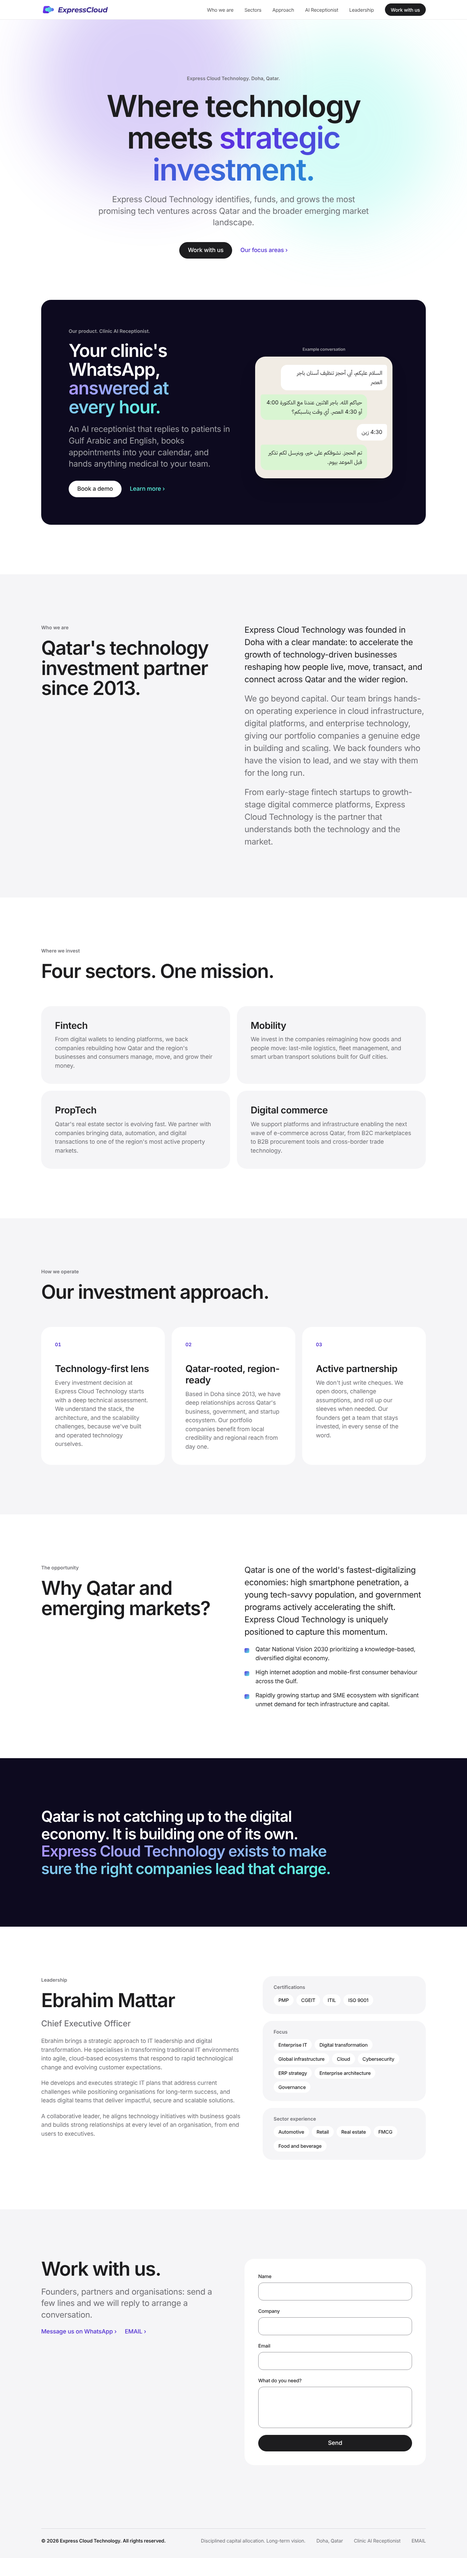
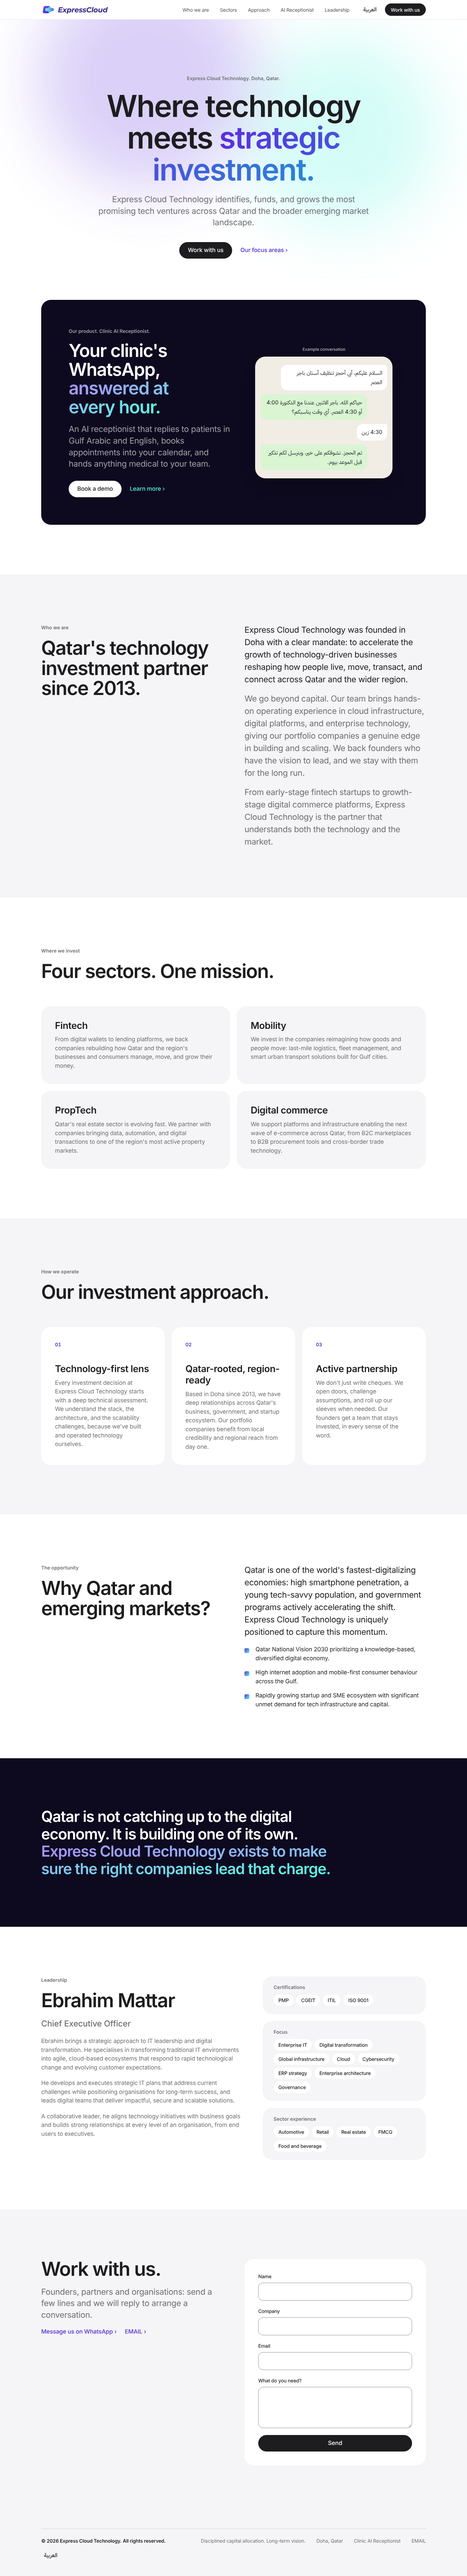
Add an Arabic home page and a language switch on every page
The home page now has a right-to-left Arabic version at /ar/ with its own
title, description and link preview image. The switch sits in the header
and footer of all four pages and keeps the visitor on the same section.

Claude-Session: https://claude.ai/code/session_01NoR23tS5FkkHHbxi4oB7Ab

diff --git a/artifacts/expresscloud-site/ar/index.html b/artifacts/expresscloud-site/ar/index.html
@@ -1,0 +1,231 @@
+<!DOCTYPE html>
+<html lang="ar" dir="rtl">
+<head>
+<meta charset="utf-8">
+<meta name="viewport" content="width=device-width, initial-scale=1, viewport-fit=cover">
+<title>ExpressCloud - حيث تلتقي التقنية بالاستثمار الاستراتيجي</title>
+<meta name="description" content="تحدّد إكسبرس كلاود تكنولوجي أبرز المشاريع التقنية الواعدة في قطر والأسواق الناشئة، وتموّلها وتنمّيها.">
+<!-- Hidden from search until the copy is approved and the domain is live. -->
+<meta name="robots" content="noindex">
+<link rel="canonical" href="https://expresscloudtech.netlify.app/ar/">
+<link rel="alternate" hreflang="en" href="https://expresscloudtech.netlify.app/">
+<link rel="alternate" hreflang="ar" href="https://expresscloudtech.netlify.app/ar/">
+<meta property="og:type" content="website">
+<meta property="og:locale" content="ar_QA">
+<meta property="og:site_name" content="ExpressCloud">
+<meta property="og:title" content="ExpressCloud - حيث تلتقي التقنية بالاستثمار الاستراتيجي">
+<meta property="og:description" content="تحدّد إكسبرس كلاود تكنولوجي أبرز المشاريع التقنية الواعدة في قطر والأسواق الناشئة، وتموّلها وتنمّيها.">
+<meta property="og:url" content="https://expresscloudtech.netlify.app/ar/">
+<meta property="og:image" content="https://expresscloudtech.netlify.app/og/home-ar.png">
+<meta property="og:image:width" content="1200">
+<meta property="og:image:height" content="630">
+<meta name="twitter:card" content="summary_large_image">
+<meta name="twitter:title" content="ExpressCloud - حيث تلتقي التقنية بالاستثمار الاستراتيجي">
+<meta name="twitter:description" content="تحدّد إكسبرس كلاود تكنولوجي أبرز المشاريع التقنية الواعدة في قطر والأسواق الناشئة، وتموّلها وتنمّيها.">
+<meta name="twitter:image" content="https://expresscloudtech.netlify.app/og/home-ar.png">
+<script type="application/ld+json">
+{
+  "@context": "https://schema.org",
+  "@type": "Organization",
+  "name": "Express Cloud Technology",
+  "alternateName": "ExpressCloud",
+  "url": "https://expresscloudtech.netlify.app/",
+  "logo": "https://expresscloudtech.netlify.app/logo-mark.svg",
+  "description": "Express Cloud Technology identifies, funds, and grows the most promising tech ventures across Qatar and the broader emerging market landscape.",
+  "foundingDate": "2013",
+  "foundingLocation": { "@type": "Place", "name": "Doha, Qatar" },
+  "address": { "@type": "PostalAddress", "addressLocality": "Doha", "addressCountry": "QA" }
+}
+</script>
+<meta name="theme-color" content="#FFFFFF">
+<link rel="icon" type="image/svg+xml" href="/favicon.svg">
+<script>document.documentElement.classList.add('js');</script>
+<link rel="stylesheet" href="../site.css">
+</head>
+<body>
+<a class="skip" href="#main">انتقل إلى المحتوى</a>
+<header class="header">
+  <div class="wrap header__row">
+    <a class="logo" href="#top" aria-label="ExpressCloud"><img src="/logo-mark.svg" alt="" width="92" height="68"><span class="logo__word" lang="en" dir="ltr">ExpressCloud</span></a>
+    <nav class="nav" id="nav" aria-label="الأقسام">
+      <a href="#about">من نحن</a>
+      <a href="#focus">القطاعات</a>
+      <a href="#approach">نهجنا</a>
+      <a href="clinic-ai-receptionist.html">موظف الاستقبال الذكي</a>
+      <a href="#leadership">القيادة</a>
+      <a class="nav__cta" href="#contact">تعاون معنا</a>
+    </nav>
+    <a class="lang" href="../index.html" lang="en" hreflang="en" data-lang-switch>English</a>
+    <button class="menu" type="button" aria-expanded="false" aria-controls="nav" data-menu><span class="sr">القائمة</span><svg viewBox="0 0 24 24" width="22" height="22" aria-hidden="true"><path d="M4 8h16M4 16h16" stroke="currentColor" stroke-width="1.8" stroke-linecap="round" fill="none"/></svg></button>
+    <a class="btn btn--small" href="#contact">تعاون معنا</a>
+  </div>
+</header>
+
+<main id="main">
+  <!-- Hero, Who we are, sectors, approach and opportunity use the company website's own wording. -->
+  <section class="hero hero--glow center" id="top">
+    <div class="wrap stack">
+      <p class="eyebrow">إكسبرس كلاود تكنولوجي. الدوحة، قطر.</p>
+      <h1>حيث تلتقي التقنية <span class="grad">بالاستثمار الاستراتيجي.</span></h1>
+      <p class="lede">تحدّد إكسبرس كلاود تكنولوجي أبرز المشاريع التقنية الواعدة في قطر والأسواق الناشئة، وتموّلها وتنمّيها.</p>
+      <div class="actions">
+        <a class="btn" href="#contact">تعاون معنا</a>
+        <a class="more" href="#focus">مجالات تركيزنا</a>
+      </div>
+    </div>
+  </section>
+
+  <section class="feature" aria-labelledby="product-title">
+    <div class="wrap">
+      <div class="tile tile--product dark">
+        <div class="stack" data-reveal>
+          <p class="eyebrow">منتجنا. موظف الاستقبال الذكي للعيادات.</p>
+          <h2 id="product-title">واتساب عيادتك، <span class="grad">يردّ على مرضاك في كل ساعة.</span></h2>
+          <p class="lede">موظف استقبال ذكي يردّ على المرضى باللهجة الخليجية وبالإنجليزية، ويحجز المواعيد في جدولكم، ويحوّل أي سؤال طبي إلى فريقكم.</p>
+          <div class="actions">
+            <a class="btn" href="clinic-ai-receptionist.html#demo">احجز عرضاً تجريبياً</a>
+            <a class="more" href="clinic-ai-receptionist.html">اعرف المزيد</a>
+          </div>
+        </div>
+        <figure class="chat" data-chat>
+        <figcaption class="chat__label">محادثة نموذجية</figcaption>
+        <ol class="chat__window" lang="ar" dir="rtl">
+          <li class="msg msg--in"><span class="sr">المراجع: </span>السلام عليكم، أبي أحجز تنظيف أسنان باجر العصر</li>
+          <li class="msg msg--out"><span class="sr">العيادة: </span>حياكم الله. باجر الاثنين عندنا مع الدكتورة 4:00 أو 4:30 العصر. أي وقت يناسبكم؟</li>
+          <li class="msg msg--in"><span class="sr">المراجع: </span>4:30 زين</li>
+          <li class="msg msg--out"><span class="sr">العيادة: </span>تم الحجز. نشوفكم على خير، وبنرسل لكم تذكير قبل الموعد بيوم.</li>
+        </ol>
+      </figure>
+      </div>
+    </div>
+  </section>
+
+  <section class="section soft" id="about">
+    <div class="wrap about">
+      <div class="head" data-reveal>
+        <p class="eyebrow">من نحن</p>
+        <h2>شريك الاستثمار التقني في قطر منذ 2013.</h2>
+      </div>
+      <div class="prose" data-reveal>
+        <p>تأسست إكسبرس كلاود تكنولوجي في الدوحة برسالة واضحة: تسريع نمو الشركات القائمة على التقنية، التي تعيد تشكيل طريقة عيش الناس وتنقّلهم ومعاملاتهم وتواصلهم في قطر والمنطقة.</p>
+        <p>نقدّم أكثر من رأس المال. يملك فريقنا خبرة تشغيلية عملية في البنية السحابية والمنصات الرقمية وتقنيات المؤسسات، ما يمنح شركات محفظتنا أفضلية حقيقية في البناء والتوسّع. ندعم المؤسسين أصحاب الرؤية القيادية، ونبقى معهم على المدى الطويل.</p>
+        <p>من شركات التقنية المالية الناشئة في مراحلها الأولى إلى منصات التجارة الرقمية في مرحلة النمو، إكسبرس كلاود تكنولوجي هي الشريك الذي يفهم التقنية والسوق معاً.</p>
+      </div>
+    </div>
+  </section>
+
+  <section class="section" id="focus">
+    <div class="wrap">
+      <div class="head" data-reveal>
+        <p class="eyebrow">أين نستثمر</p>
+        <h2>أربعة قطاعات. رسالة واحدة.</h2>
+      </div>
+      <ul class="grid grid--2">
+        <li class="card" data-reveal><h3>التقنية المالية</h3><p>من المحافظ الرقمية إلى منصات الإقراض، ندعم الشركات التي تعيد بناء طريقة إدارة الأموال وتحويلها وتنميتها لدى الشركات والأفراد في قطر والمنطقة.</p></li>
+        <li class="card" data-reveal><h3>التنقّل</h3><p>نستثمر في الشركات التي تعيد ابتكار حركة البضائع والأشخاص: توصيل الميل الأخير، وإدارة الأساطيل، وحلول النقل الحضري الذكي المصمّمة لمدن الخليج.</p></li>
+        <li class="card" data-reveal><h3>التقنية العقارية</h3><p>يتطور القطاع العقاري في قطر بسرعة. نتعاون مع الشركات التي تُدخل البيانات والأتمتة والمعاملات الرقمية إلى واحد من أنشط أسواق العقار في المنطقة.</p></li>
+        <li class="card" data-reveal><h3>التجارة الرقمية</h3><p>ندعم المنصات والبنية التي تمكّن الموجة القادمة من التجارة الإلكترونية في قطر، من أسواق البيع للمستهلكين إلى أدوات المشتريات بين الشركات وتقنيات التجارة عبر الحدود.</p></li>
+      </ul>
+    </div>
+  </section>
+
+  <section class="section soft" id="approach">
+    <div class="wrap">
+      <div class="head" data-reveal>
+        <p class="eyebrow">كيف نعمل</p>
+        <h2>نهجنا في الاستثمار.</h2>
+      </div>
+      <ol class="grid grid--3">
+        <li class="card" data-reveal><span class="card__n" aria-hidden="true">٠١</span><h3>التقنية أولاً</h3><p>يبدأ كل قرار استثماري في إكسبرس كلاود تكنولوجي بتقييم تقني عميق. نفهم البنية البرمجية والمعمارية وتحديات التوسّع، لأننا بنينا التقنية وشغّلناها بأنفسنا.</p></li>
+        <li class="card" data-reveal><span class="card__n" aria-hidden="true">٠٢</span><h3>جذور في قطر، وجاهزية للمنطقة</h3><p>نعمل من الدوحة منذ 2013، ولدينا علاقات راسخة في أوساط الأعمال والجهات الحكومية ومنظومة الشركات الناشئة في قطر. تستفيد شركات محفظتنا من المصداقية المحلية والوصول الإقليمي منذ اليوم الأول.</p></li>
+        <li class="card" data-reveal><span class="card__n" aria-hidden="true">٠٣</span><h3>شراكة فاعلة</h3><p>لا نكتفي بتوقيع الشيكات. نفتح الأبواب، ونختبر الافتراضات، ونشمّر عن سواعدنا عند الحاجة. يحصل مؤسسونا على فريق يبقى مستثمراً معهم، بكل معنى الكلمة.</p></li>
+      </ol>
+    </div>
+  </section>
+
+  <section class="section" id="opportunity">
+    <div class="wrap about">
+      <div class="head" data-reveal>
+        <p class="eyebrow">الفرصة</p>
+        <h2>لماذا قطر والأسواق الناشئة؟</h2>
+      </div>
+      <div class="prose" data-reveal>
+        <p>قطر من أسرع اقتصادات العالم تحولاً رقمياً: انتشار واسع للهواتف الذكية، ومجتمع شاب متمكّن من التقنية، وبرامج حكومية تسرّع هذا التحول. وإكسبرس كلاود تكنولوجي في موقع فريد للاستفادة من هذا الزخم.</p>
+        <ul class="ticks">
+          <li>رؤية قطر الوطنية 2030 تضع في أولوياتها اقتصاداً رقمياً متنوعاً قائماً على المعرفة.</li>
+          <li>انتشار واسع للإنترنت، وسلوك استهلاكي يعتمد على الجوال أولاً في أنحاء الخليج.</li>
+          <li>منظومة شركات ناشئة وصغيرة ومتوسطة تنمو بسرعة، مع طلب كبير غير ملبّى على البنية التقنية ورأس المال.</li>
+        </ul>
+      </div>
+    </div>
+  </section>
+
+  <section class="section dark" id="principle">
+    <div class="wrap">
+      <blockquote class="statement" data-reveal>قطر لا تلحق بالاقتصاد الرقمي، بل تبني اقتصادها الرقمي الخاص. <span class="grad">وإكسبرس كلاود تكنولوجي وُجدت لتضمن أن تقود الشركات المناسبة هذه المسيرة.</span></blockquote>
+    </div>
+  </section>
+
+  <section class="section" id="leadership">
+    <div class="wrap person">
+      <div class="stack" data-reveal>
+        <p class="eyebrow">القيادة</p>
+        <h2 class="person__name">إبراهيم مطر</h2>
+        <p class="person__role">الرئيس التنفيذي</p>
+        <p>يتبع إبراهيم نهجاً استراتيجياً في قيادة تقنية المعلومات والتحول الرقمي. يتخصص في تحويل بيئات تقنية المعلومات التقليدية إلى منظومات سحابية مرنة، تستجيب للتغير التقني السريع ولتوقعات العملاء المتجددة.</p>
+        <p>يضع خططاً استراتيجية لتقنية المعلومات وينفّذها، تعالج تحديات الحاضر وتهيّئ المؤسسات للنجاح على المدى الطويل، ويقود فرقاً رقمية تقدّم حلولاً مؤثرة وآمنة وقابلة للتوسّع.</p>
+        <p>قائد يؤمن بالعمل المشترك، يوائم المبادرات التقنية مع أهداف العمل، ويبني علاقات متينة على كل مستويات المؤسسة، من المستخدمين إلى الإدارة التنفيذية.</p>
+      </div>
+      <div class="facts" data-reveal>
+        <div><h3>الشهادات</h3><ul class="chips" dir="ltr"><li>PMP</li><li>CGEIT</li><li>ITIL</li><li>ISO 9001</li></ul></div>
+        <div><h3>مجالات التركيز</h3><ul class="chips"><li>تقنية المعلومات المؤسسية</li><li>التحول الرقمي</li><li>البنية التحتية العالمية</li><li>السحابة</li><li>الأمن السيبراني</li><li>استراتيجية أنظمة ERP</li><li>معمارية المؤسسات</li><li>الحوكمة</li></ul></div>
+        <div><h3>الخبرة القطاعية</h3><ul class="chips"><li>السيارات</li><li>التجزئة</li><li>العقارات</li><li>السلع الاستهلاكية</li><li>الأغذية والمشروبات</li></ul></div>
+      </div>
+    </div>
+  </section>
+
+  <section class="section soft" id="contact">
+    <div class="wrap split">
+      <div class="stack" data-reveal>
+        <h2>تعاون معنا.</h2>
+        <p class="lede">للمؤسسين والشركاء والمؤسسات: أرسلوا لنا بضعة أسطر، وسنردّ لترتيب محادثة.</p>
+        <div class="actions">
+          <a class="more" href="https://wa.me/97450008155">راسلنا على الواتساب</a>
+          <a class="more" href="mailto:EMAIL" dir="ltr">EMAIL</a>
+        </div>
+      </div>
+      <div>
+        <form class="form" name="contact" method="POST" data-netlify="true" netlify-honeypot="website" data-form>
+          <input type="hidden" name="form-name" value="contact">
+          <input type="hidden" name="language" value="Arabic">
+          <p class="form__trap" aria-hidden="true"><label>اتركوا هذا الحقل فارغاً <input name="website" tabindex="-1" autocomplete="off"></label></p>
+          <div class="field"><label for="c-name">الاسم</label><input id="c-name" name="name" type="text" autocomplete="name" required></div>
+          <div class="field"><label for="c-company">الشركة</label><input id="c-company" name="company" type="text" autocomplete="organization" required></div>
+          <div class="field"><label for="c-email">البريد الإلكتروني</label><input id="c-email" name="email" type="email" dir="ltr" autocomplete="email" required></div>
+          <div class="field"><label for="c-message">ما الذي تحتاجونه؟</label><textarea id="c-message" name="message" required></textarea></div>
+          <button class="btn" type="submit">إرسال</button>
+          <p class="form__error" role="alert" hidden data-form-error>تعذّر الإرسال. حاولوا مرة أخرى، أو راسلونا على الواتساب.</p>
+        </form>
+        <div class="thanks" role="status" tabindex="-1" hidden data-form-thanks>
+          <h3>شكراً لكم.</h3>
+          <p>وصلتنا رسالتكم وسنردّ قريباً.</p>
+        </div>
+      </div>
+    </div>
+  </section>
+</main>
+
+<footer class="footer">
+  <div class="wrap footer__row">
+    <span class="footer__name">&copy; 2026 <span lang="en" dir="ltr">Express Cloud Technology</span>. جميع الحقوق محفوظة.</span>
+    <span>تخصيص منضبط لرأس المال. رؤية بعيدة المدى.</span>
+    <span>الدوحة، قطر</span>
+    <a href="clinic-ai-receptionist.html">موظف الاستقبال الذكي للعيادات</a>
+    <a href="mailto:EMAIL" dir="ltr">EMAIL</a>
+    <a class="lang" href="../index.html" lang="en" hreflang="en" data-lang-switch>English</a>
+  </div>
+</footer>
+
+<script type="module" src="../site.js"></script>
+</body>
+</html>

diff --git a/artifacts/expresscloud-site/index.html b/artifacts/expresscloud-site/index.html
@@ -8,6 +8,8 @@
 <!-- Hidden from search until the copy is approved and the domain is live. -->
 <meta name="robots" content="noindex">
 <link rel="canonical" href="https://expresscloudtech.netlify.app/">
+<link rel="alternate" hreflang="en" href="https://expresscloudtech.netlify.app/">
+<link rel="alternate" hreflang="ar" href="https://expresscloudtech.netlify.app/ar/">
 <meta property="og:type" content="website">
 <meta property="og:site_name" content="ExpressCloud">
 <meta property="og:title" content="ExpressCloud - Where technology meets strategic investment">
@@ -50,7 +52,9 @@
       <a href="#approach">Approach</a>
       <a href="clinic-ai-receptionist.html">AI Receptionist</a>
       <a href="#leadership">Leadership</a>
+      <a class="nav__cta" href="#contact">Work with us</a>
     </nav>
+    <a class="lang" href="ar/index.html" lang="ar" hreflang="ar" data-lang-switch>العربية</a>
     <button class="menu" type="button" aria-expanded="false" aria-controls="nav" data-menu><span class="sr">Menu</span><svg viewBox="0 0 24 24" width="22" height="22" aria-hidden="true"><path d="M4 8h16M4 16h16" stroke="currentColor" stroke-width="1.8" stroke-linecap="round" fill="none"/></svg></button>
     <a class="btn btn--small" href="#contact">Work with us</a>
   </div>
@@ -216,6 +220,7 @@
     <span>Doha, Qatar</span>
     <a href="clinic-ai-receptionist.html">Clinic AI Receptionist</a>
     <a href="mailto:EMAIL">EMAIL</a>
+    <a class="lang" href="ar/index.html" lang="ar" hreflang="ar" data-lang-switch>العربية</a>
   </div>
 </footer>
 

diff --git a/artifacts/expresscloud-site/site.css b/artifacts/expresscloud-site/site.css
@@ -219,8 +219,8 @@ blockquote { margin: 0; }
 .lang:lang(ar) { font-family: "IBM Plex Sans Arabic", var(--font-sans); font-size: 1rem; }
 .nav__cta { display: none; }
 @media (max-width: 819px) { .nav.is-open .nav__cta { display: block; color: var(--accent); } }
-/* Product pages on phones: the language switch takes the header button's place; the hero button is right below. */
-@media (max-width: 479px) { .product .header__cta { display: none; } }
+/* Phones: the language switch takes the header button's place; the same button is in the hero and the menu. */
+@media (max-width: 479px) { .header .btn--small { display: none; } }
 @media (max-width: 359px) { .product .logo__tag { display: none; } }
 
 /* ---------- Product hero ---------- */
@@ -240,3 +240,6 @@ html[lang="ar"] :is(h1, h2) { font-weight: 600; }
 html[lang="ar"] .hero__title { font-size: clamp(2.25rem, 1.3rem + 4vw, 4rem); }
 [dir="rtl"] .field input[type="tel"] { text-align: right; }
 .thanks h3 { font-size: var(--text-h3); }
+.chips[dir="ltr"] { justify-content: flex-end; }
+html[lang="ar"] .statement { line-height: 1.5; }
+html[lang="ar"] .person__name { line-height: 1.4; }

diff --git a/artifacts/expresscloud-site/ar/clinic-ai-receptionist.html b/artifacts/expresscloud-site/ar/clinic-ai-receptionist.html
@@ -73,7 +73,7 @@
 <a class="skip" href="#main">انتقل إلى المحتوى</a>
 <header class="header">
   <div class="wrap header__row">
-    <a class="logo" href="../index.html" aria-label="ExpressCloud AI، العودة إلى ExpressCloud"><img src="/logo-mark.svg" alt="" width="92" height="68"><span class="logo__word" lang="en" dir="ltr">ExpressCloud</span> <span class="logo__tag" lang="en">AI</span></a>
+    <a class="logo" href="index.html" aria-label="ExpressCloud AI، العودة إلى ExpressCloud"><img src="/logo-mark.svg" alt="" width="92" height="68"><span class="logo__word" lang="en" dir="ltr">ExpressCloud</span> <span class="logo__tag" lang="en">AI</span></a>
     <nav class="nav" id="nav" aria-label="الأقسام">
       <a href="#how">كيف يعمل</a>
       <a href="#safety">الأمان</a>

diff --git a/CLAUDE.md b/CLAUDE.md
@@ -14,5 +14,6 @@ Direction: premium and minimal (large type, lots of space, black, white and one 
 - Never ask for patient data on this site.
 - No emoji, stock photos or robot imagery. The only gradient is the brand violet-to-aqua, used sparingly.
 - The public address is set in page meta tags, `public/sitemap.xml` and `public/robots.txt` (currently the Netlify address); update all of them when the domain changes.
+- The home page also has an Arabic version (`ar/index.html`), translated from the English; change both together.
 - The clinic page exists in English (`clinic-ai-receptionist.html`) and Arabic (`ar/clinic-ai-receptionist.html`, right-to-left). Both use the brief's copy as written; change them together. A native Gulf Arabic speaker reviews the Arabic before launch.
 - Before launch, replace `EMAIL`, confirm the WhatsApp number, remove the `noindex` tag from each page, and allow crawling in `public/robots.txt`.
